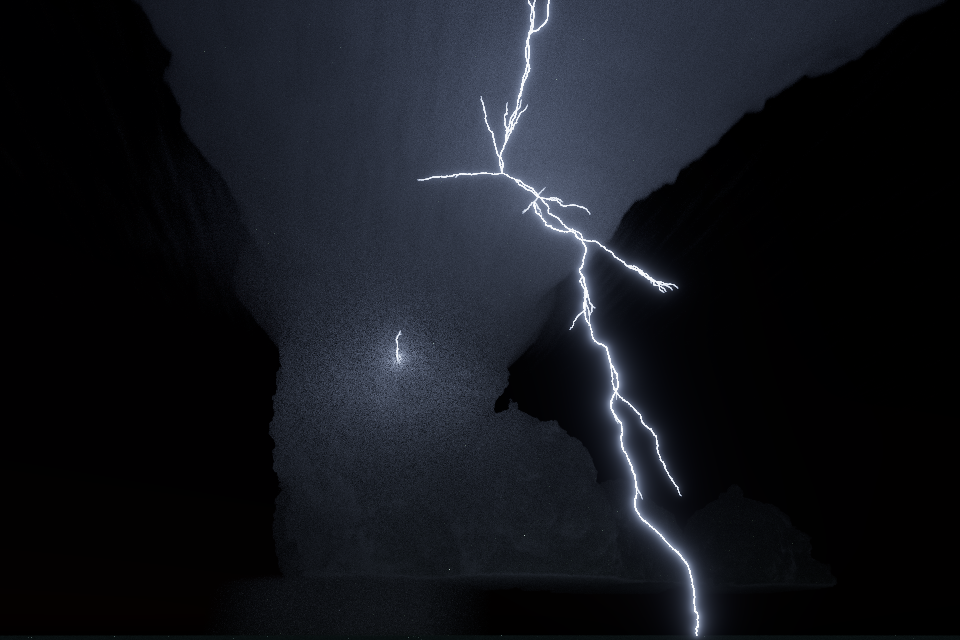
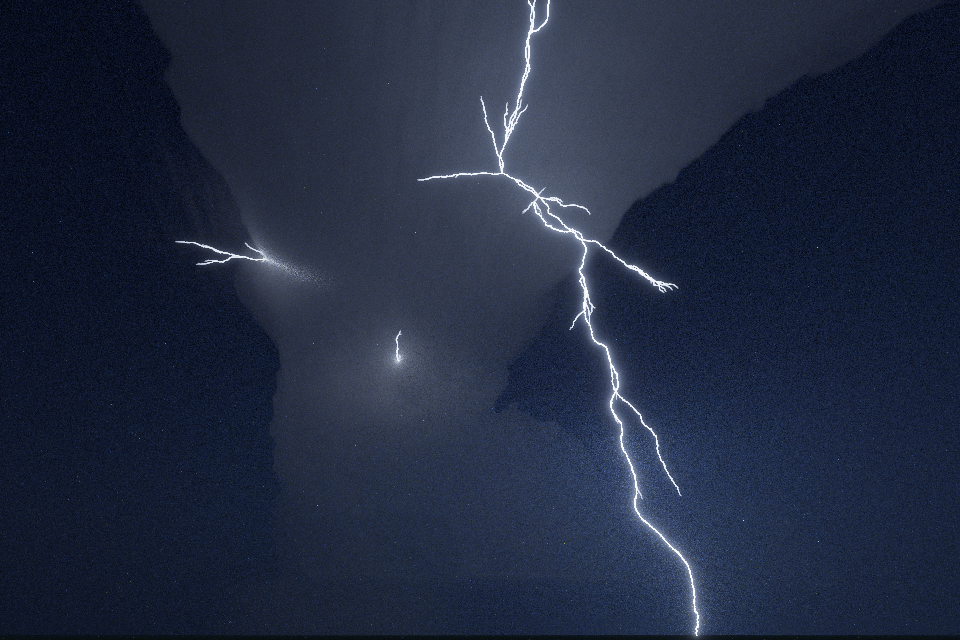
Lightning under the anvil: the air lit by the flashes, and another flash
The lowest 3 km of air scatter as at sea level (Rayleigh plus a little
haze), so the night sky around the storm glows blue where the flashes light
it; another flash spreads through the anvil off to the left; the light BVH
samples the flashes near each point.

Claude-Session: https://claude.ai/code/session_01U8ZZinkEy4uK9PmdkwJuJu

diff --git a/demo/cloud-atlas.md b/demo/cloud-atlas.md
@@ -489,7 +489,16 @@ under the anvil's base (spider lightning, `"kind": "intracloud"` held near its `
 `cloud_depth`), lighting its underside; one comes down to the ground. A flash about a kilometre
 inside the tower lights it from within, through the diffusion approximation. Seen from below, the
 anvil flares down into the tower, its underside hanging in soft lobes and its edges scalloped.
-Exposed as long exposures of storms are (`"exposure": 6000`, about ISO 3200).
+A further flash spreads through the anvil off to the left; in a long exposure a storm flashes
+many times, and each lights its own part of it. Exposed as long exposures of storms are
+(`"exposure": 6000`, about ISO 3200).
+
+The clear air glows too. At night the sky is no light source, but the air is still there to
+scatter the flashes: the lowest 3 km are a `volume` with the sea-level air's scattering, Rayleigh's
+for the molecules (5.8, 13.5 and 33·10⁻⁶ per metre in red, green and blue) plus a little haze, so
+the sky around the storm is deep blue where the flashes light it, brightest around each channel,
+with the cloud dark against it. With several flashes, `"light_sampler": "bvh"` samples the ones
+near each point rather than choosing by their total power. `lightning.json` has the same air.
 
 ### Iridescence
 
